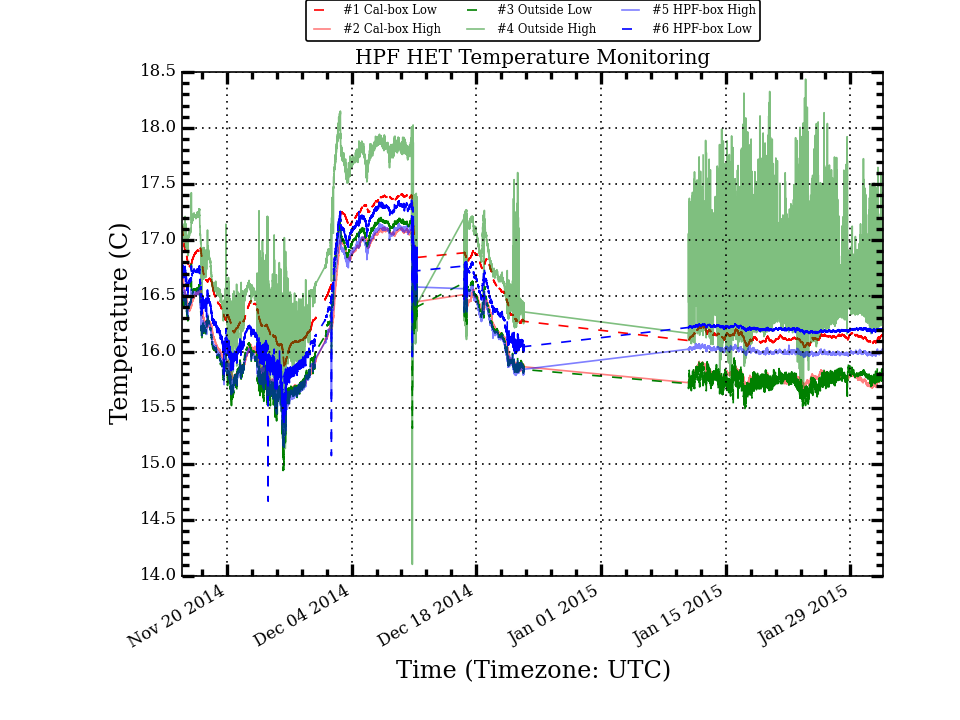
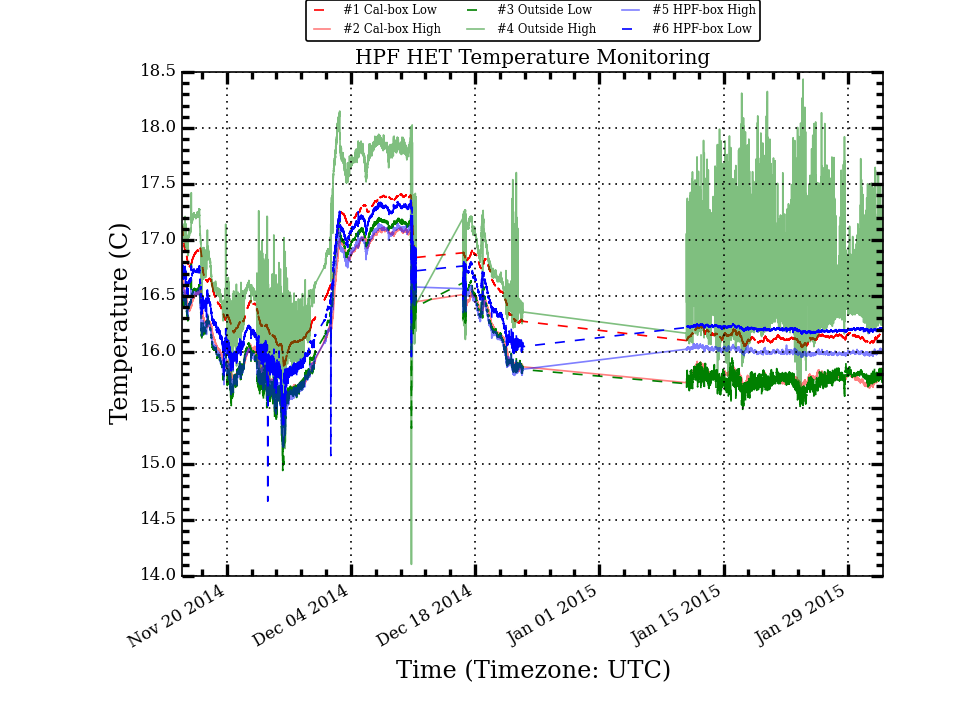
Update HPF Temp Plots

diff --git a/research/hpf_temps/plots/LakeShoreLogTotal_stats.html b/research/hpf_temps/plots/LakeShoreLogTotal_stats.html
@@ -10,17 +10,17 @@
  </TR>
  <TR>
   <TD>Cal_Low</TD>
-  <TD>16.459</TD>
+  <TD>16.458</TD>
   <TD>0.441</TD>
-  <TD>16.222</TD>
+  <TD>16.219</TD>
   <TD>17.410</TD>
   <TD>15.840</TD>
   <TD>1.570</TD>
  </TR>
  <TR>
   <TD>Cal_High</TD>
-  <TD>16.094</TD>
-  <TD>0.465</TD>
+  <TD>16.093</TD>
+  <TD>0.464</TD>
   <TD>15.842</TD>
   <TD>17.114</TD>
   <TD>15.410</TD>
@@ -28,8 +28,8 @@
  </TR>
  <TR>
   <TD>Out_Low</TD>
-  <TD>16.086</TD>
-  <TD>0.506</TD>
+  <TD>16.084</TD>
+  <TD>0.505</TD>
   <TD>15.819</TD>
   <TD>17.201</TD>
   <TD>14.942</TD>
@@ -37,17 +37,17 @@
  </TR>
  <TR>
   <TD>Out_High</TD>
-  <TD>16.783</TD>
-  <TD>0.556</TD>
-  <TD>16.628</TD>
+  <TD>16.781</TD>
+  <TD>0.555</TD>
+  <TD>16.626</TD>
   <TD>18.436</TD>
   <TD>14.104</TD>
   <TD>4.332</TD>
  </TR>
  <TR>
   <TD>HPF_High</TD>
-  <TD>16.177</TD>
-  <TD>0.424</TD>
+  <TD>16.176</TD>
+  <TD>0.423</TD>
   <TD>16.010</TD>
   <TD>17.147</TD>
   <TD>15.149</TD>
@@ -55,8 +55,8 @@
  </TR>
  <TR>
   <TD>HPF_Low</TD>
-  <TD>16.379</TD>
-  <TD>0.421</TD>
+  <TD>16.378</TD>
+  <TD>0.420</TD>
   <TD>16.209</TD>
   <TD>17.356</TD>
   <TD>14.668</TD>
